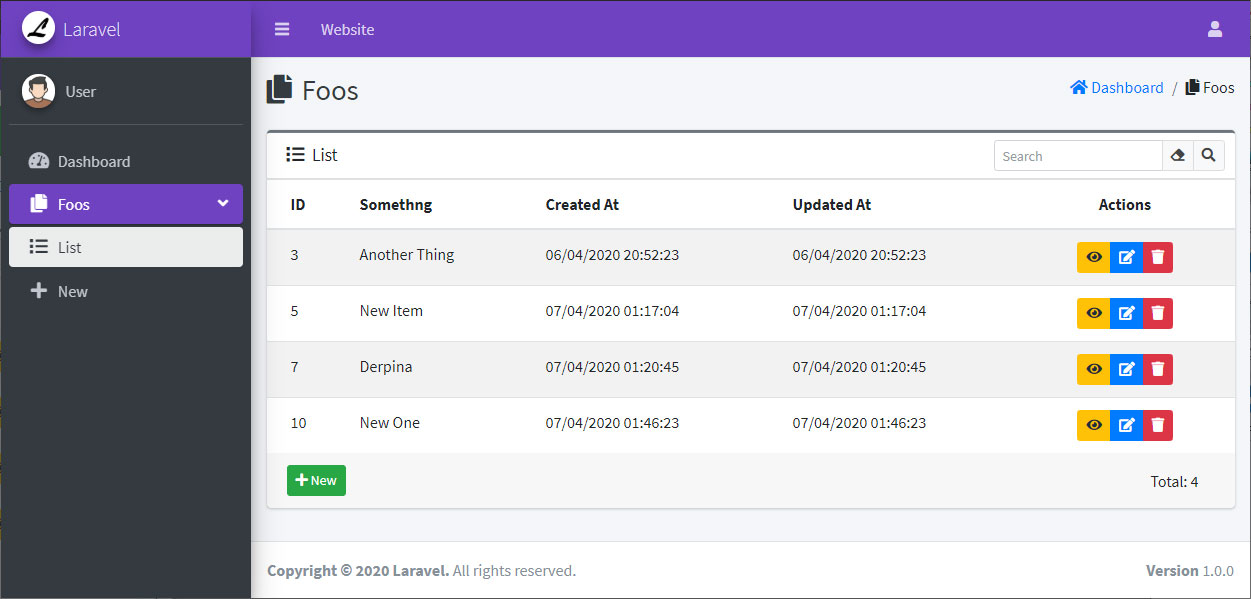
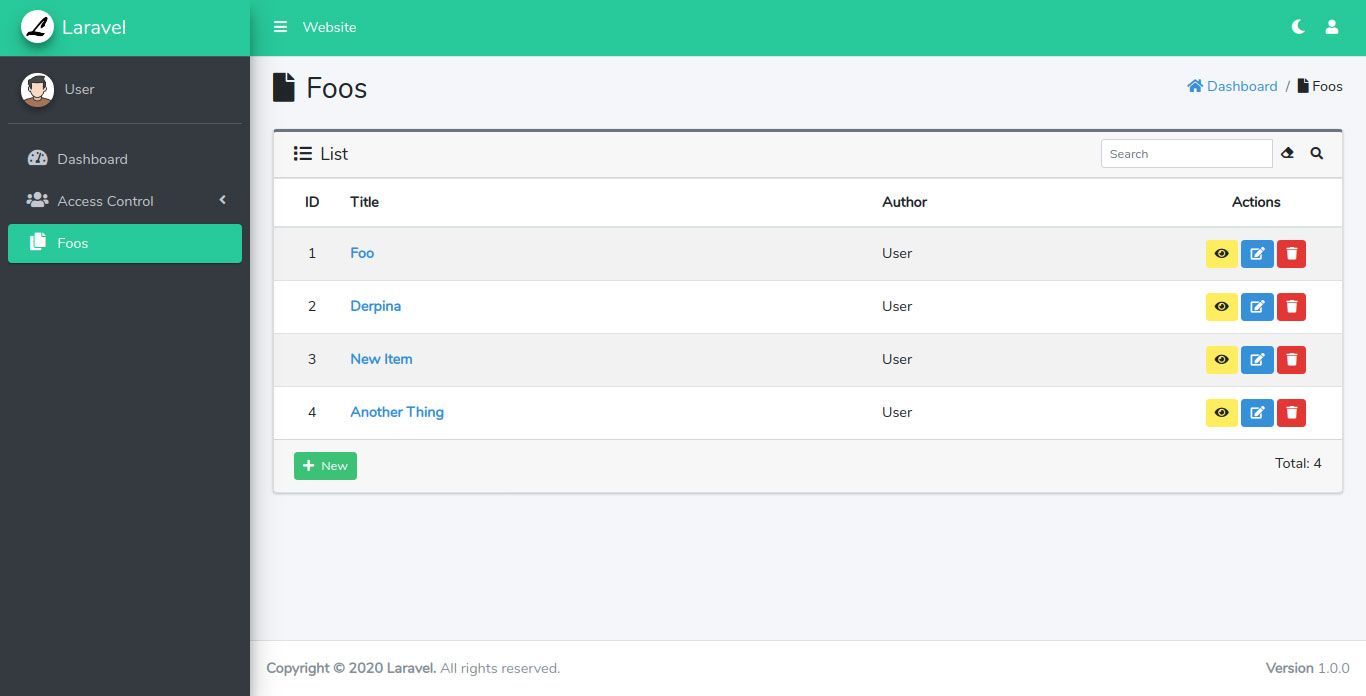
Updated preview images

diff --git a/config/template.php b/config/template.php
@@ -1,6 +1,6 @@
-<?php 
+<?php
     return [
-        'dark-mode' => true,
+        'dark-mode' => false,
         'theme' => 'teal', // ['primary', 'secondary', 'success', 'danger', 'warning', 'info', 'light', 'dark', 'blue', 'indigo', 'purple', 'pink', 'red', 'orange', 'yellow', 'green', 'teal', 'cyan']
         'version' => '1.0.0',
         'menu' => [

diff --git a/README.md b/README.md
@@ -23,6 +23,7 @@ Use the file config/template.php to customize menu, color, version, etc.
 
 ### Admin Preview
 ![preview-admin](preview-admin.jpg)
+![preview-admin-dark-mode](preview-admin-dark-mode.jpg)
 ![preview-crud-list](preview-crud-list.jpg)
 ![preview-crud-new](preview-crud-new.jpg)
 
